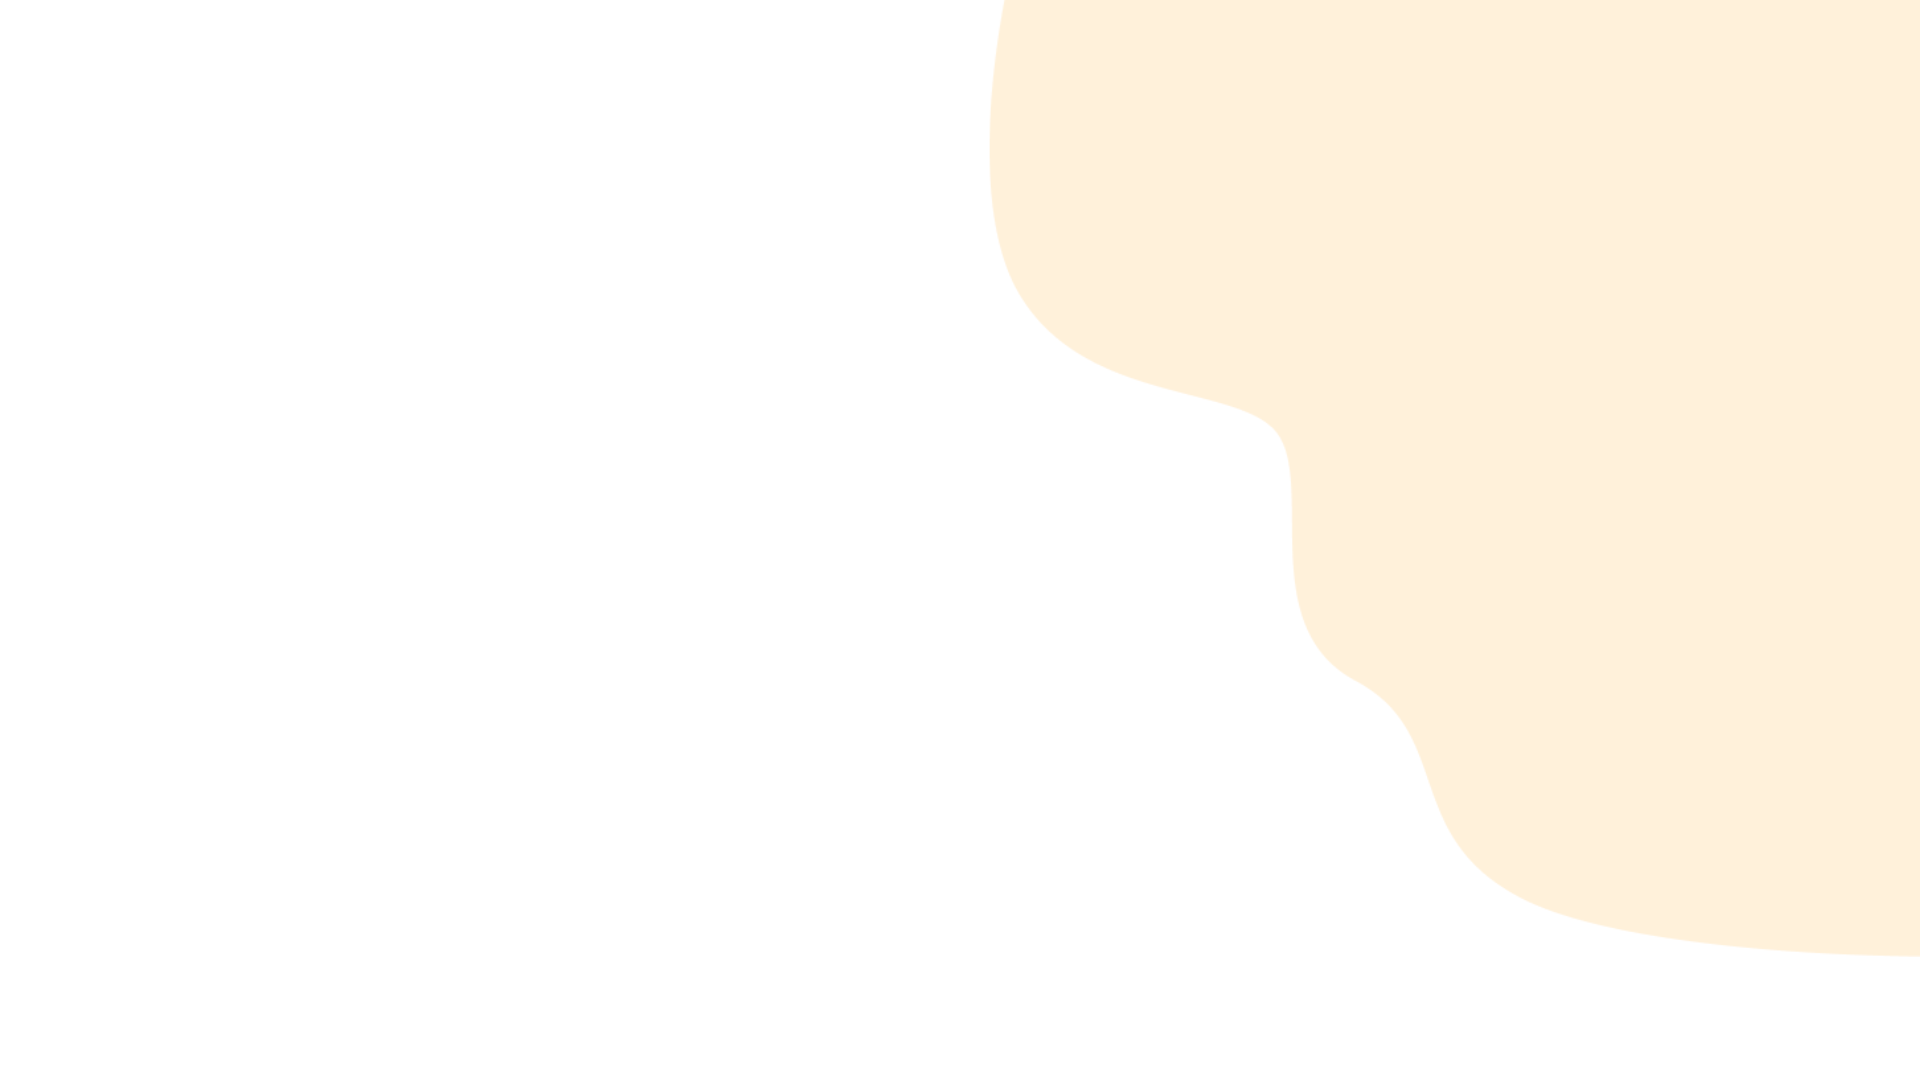
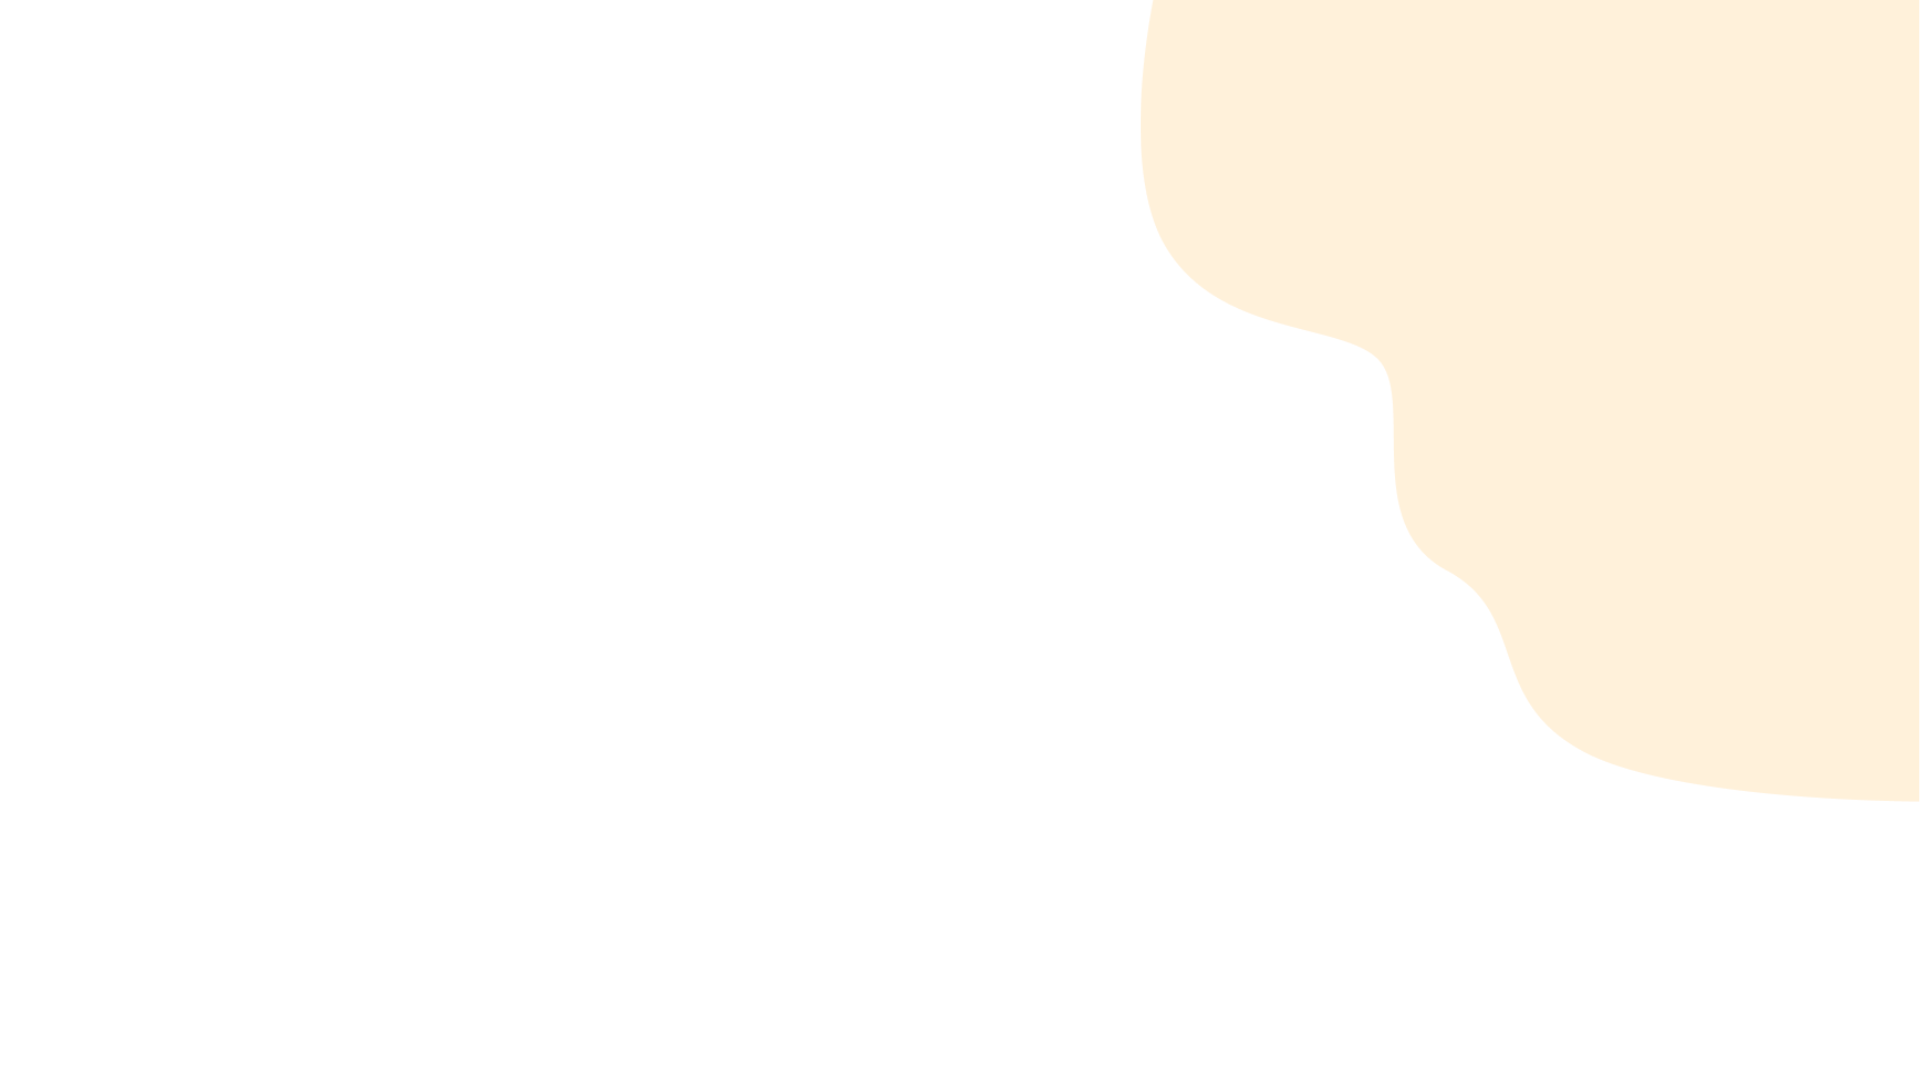
cmmit

Changed region(s): [[0.5, 0.0, 1.0, 0.8861]]

diff --git a/index.html b/index.html
@@ -9,11 +9,11 @@
 </head>
 <body>
      
- <header class=" w-full h-screen">
+ <header class=" px-15 xl:px-50 lg:px-30   w-full h-screen  bg-[url(/images/photo/500.png)] ">
   
 
-    <nav class="w-full flex justify-between items-center px-50 py-6 fixed top-0 right-0 z-100">
-        <div class="logo text-2xl ">
+    <nav class="w-full flex justify-between items-center py-6  ">
+        <div class="logo text-xl xl:text-2xl ">
             <img src="/images/icone/Logo.svg" alt="" srcset="">
         </div>
        <div class="nav_link md:flex items-center gap-15 text-base font-medium hidden" >
@@ -22,8 +22,7 @@
         <a href="" class=" hover:text-yellow-600 font-semibold">Flights</a>
         <a href="" class=" hover:text-yellow-600 font-semibold">Bookings</a>
         <a href="" class=" hover:text-yellow-600 font-semibold">Login</a>
-        <a href="" class=" hover:text-yellow-600 font-semibold">Login</a>
-        <button class="px-10 py-2 rounded-lg border-1 font-semibold text-dark hover:bg-blue-700 hidden  md:block">Sign up</button>
+        <button class="px-10 py-2 rounded-lg border-1 font-semibold text-dark hover:bg-amber-500 hover:text-white hidden  md:block">Sign up</button>
         <select name="" id="" class="text-dark p-2 focus:outline-none font-semibold">
             <option class="w-lg" value="">EN</option>
             <option value="" class="w-lg">FR</option>
@@ -32,36 +31,105 @@
         
     </nav>
 
+     <div class="header_content flex justify-beetween w-full  h-full">
+        <div class="header_content_left  w-1/2 flex flex-col gap-10 pt-40 ">
+            <h4 class="text-xl font-bold text-red-500">Best Destinations around the world</h4>
+            <h1 class="text-8xl text-blue-950 ">Travel, <span>enjoy</span>
+                and live a new
+                and full life</h1>
+                <p class="text-xl/9 text-blue-950 w-150 ">Built Wicket longer admire do barton vanity itself do in it. Preferred to sportsmen it engrossed listening. Park gate sell they west hard for the.</p>
+                <div class="btn flex gap-5">
+                    <button class="py-5 rounded-xl px-15 bg-amber-500 text-white  hover:bg-amber-400 ">Fond out more</button>
+                    <button class="rounded-full   hover:bg-red-400   bg-red-400 text-white p-5">
+                        <svg xmlns="http://www.w3.org/2000/svg" width="24" height="24" viewBox="0 0 24 24" fill="none" stroke="currentColor" stroke-width="2" stroke-linecap="round" stroke-linejoin="round" class="lucide lucide-play"><polygon points="6 3 20 12 6 21 6 3"/></svg>
+                    </button>
+                </div>
+
+        </div>
+        <div class="header_content_right w-1/2 h-screen hidden md:block bg-[url(/images/photo/fille_baniere.png)] bg-no-repeat ">
+            
+        </div>
+     
+    </div> 
+
  </header>
 
 
- <main class="bg">
-    <section class=" ">
+
+
+
+ <main class="">
+    <section class="category  px-10 lg:px-30  xl:px-50  w-full py-5 my-10 lg:my-15 xl:my-20">
+       <div class="category_text text-center">
+        <p class="text-lg lg:text-xl xl:text-2xl font-medium text-blue-900 opacity-70   ">Category</p>
+        <h1 class=" text-blue-950 text-2xl lg:text-3xl xl:text-5xl font-bold my-5 ">We Offer Best Services</h1>
+       </div>
+       <div class="category_content  mt-20 
+      max-w-2xl mx-auto 
+        lg:max-w-full grid grid-cols-1 gap-y-10 gap-x-5
+        sm:grid-cols-1
+        lg:grid-cols-2
+        xl:grid-cols-4
+         ">
+         <div class="category_item flex flex-col gap-4 p-4 items-center hover:shadow-xl  hover:rounded-2xl ">
+          
+                <img class="w-20 h-20" src="/images/icone/category1.svg" alt="" srcset="">
+                <h3 class="text-xl text-blue-900 font-regular">Calculated Weather</h3>
+                <p class=" text-center text-blue-900 font-regular opacity-70 lg:px-10">Built Wicket longer admire do barton vanity itself do in it.</p>
+         </div>
+         <div class="category_item   flex flex-col gap-4 p-4 items-center">
+           
+                <img class="w-20 h-20" src="/images/icone/category2.svg" alt="" srcset="">
+                <h3 class="text-xl text-blue-900 font-regular">Best Flights</h3>
+                <p class=" text-center text-blue-900 font-regular opacity-70  lg:px-10 ">Engrossed listening. Park gate sell they west hard for the.</p>
        
+         </div>
+      
+         <div class="category_item p-4 flex flex-col gap-4  items-center">
+          
+                <img class="w-20 h-20" src="/images/icone/category3.svg" alt="" srcset="">
+                <h3 class="text-xl text-blue-900 font-regular">Local Events</h3>
+                <p class=" text-center text-blue-900 font-regular opacity-70  lg:px-10">Barton vanity itself do in it. Preferd to men it engrossed listening. </p>
+          
+         </div>
+         <div class="category_item  p-4 flex flex-col gap-4  items-center">
+           
+                <img class="w-20 h-20" src="/images/icone/category4.svg" alt="" srcset="">
+                <h3 class="text-xl text-blue-900 font-regular">Customization</h3>
+                <p class=" text-center text-blue-900 font-regular opacity-70 lg:px-10">We deliver outsourced aviation services for military customers</p>
+        
+         </div>
+   
+
+
+
+       </div>
     </section>
 
-    <section class="presentation  w-full py-[7%] px-[10%]">
-        <h1 class="text-center text-4xl font-bold">Une expérience satisfaisante tout au long de vos voyages</h1>
-        <p class="text-center w-[60%] m-auto my-15">Voyager est bien plus qu'un simple déplacement, c'est une expérience qui doit être à la fois agréable et sans souci. Notre mission est de vous offrir une satisfaction complète à chaque étape de votre parcours. Du confort à bord à la simplicité des services, nous mettons tout en œuvre pour que vos voyages soient synonymes de plaisir, de sécurité et de tranquillité d'esprit. Profitez pleinement de chaque trajet, nous nous occupons du reste.</p>
+    <section class="presentation  px-10  lg:px-30 xl:px-50 w-full my-5 lg:my-20 xl:my-50 ">
+        <div class="presentation_text text-center">
+            <p class="text-lg lg:text-xl xl:text-2xl font-medium text-blue-900 opacity-70">Top Selling</p>
+            <h1 class=" text-blue-950 text-2xl lg:text-3xl xl:text-5xl font-bold my-5 ">Top Destination</h1>
+        </div>
 
         <div class="presentation_carde mt-[7%]
         max-w-2xl mx-auto 
-        lg:max-w-full grid grid-cols-1 gap-y-10 gap-x-8
-        sm:grid-cols-2 
+        lg:max-w-full grid grid-cols-1 gap-y-10 gap-x-15
+        sm:grid-cols-2
         lg:grid-cols-3
-        xl:grid-cols-4
+        xl:grid-cols-3 
         ">
        
             <div class="carde_item bg-white shadow-lg rounded-lg ">
-                <img src="/images/photo/paris.jpg" class="rounded-t-lg" alt="" srcset="">
+                <img src="/images/photo/rome.jpg" class="rounded-t-lg" alt="" srcset="">
                 <div class="p-4">
                     <div class="flex mb-5 justify-between">
-                        <h4>Paris , sénégal</h4>
-                        <p class="text-gray-700 font-bold">350 000 cfa</p>
+                        <h4>Rome, Itali</h4>
+                        <p class="text-gray-700 font-bold">$5,42k</p>
                     </div>
                     <a href="" class="inline-flex items-center justify-between gap-3 py-1 font-medium ">
                         <img class=" h-5 w-6" src="/images/icone/paper-plane-solid.svg" alt="" srcset="">
-                    <span class="text-gray-700 text-lg">visiter</span>
+                    <span class="text-gray-700 text-lg">10 Days Trip</span>
 
                     </a>
 
@@ -73,15 +141,15 @@
             </div>
 
             <div class="carde_item bg-white shadow-lg rounded-lg">
-                <img src="/images/photo/usa.jpg" class="rounded-t-lg" alt="" srcset="">
+                <img src="/images/photo/londre.jpg" class="rounded-t-lg" alt="" srcset="">
                 <div class="p-4">
                     <div class="flex mb-5 justify-between">
-                        <h4>Usa , sénégal</h4>
-                        <p class="text-gray-700 font-bold">650 000 cfa</p>
+                        <h4>London, UK</h4>
+                        <p class="text-gray-700 font-bold">$4.2k</p>
                     </div>
                     <a href="" class="inline-flex items-center justify-between gap-3 py-1 font-medium ">
                         <img class=" h-5 w-6" src="/images/icone/paper-plane-solid.svg" alt="" srcset="">
-                    <span class="text-gray-700 text-lg">visiter</span>
+                    <span class="text-gray-700 text-lg">12 Days Trip</span>
 
                     </a>
 
@@ -93,15 +161,15 @@
            </div>
 
             <div class="carde_item bg-white shadow-lg rounded-lg">
-                <img src="/images/photo/londre.jpg" class="rounded-t-lg" alt="" srcset="">
+                <img src="/images/photo/europe.jpg" class="rounded-t-lg" alt="" srcset="">
                 <div class="p-4">
                     <div class="flex mb-5 justify-between">
-                        <h4>Londre , sénégal</h4>
-                        <p class="text-gray-700 font-bold">750 000 cfa</p>
+                        <h4>Full Europe</h4>
+                        <p class="text-gray-700 font-bold">$15k</p>
                     </div>
                     <a href="" class="inline-flex items-center justify-between gap-3 py-1 font-medium ">
                         <img class=" h-5 w-6" src="/images/icone/paper-plane-solid.svg" alt="" srcset="">
-                    <span class="text-gray-700 text-lg">visiter</span>
+                    <span class="text-gray-700 text-lg">28 Days Trip</span>
 
                     </a>
 
@@ -109,91 +177,12 @@
 
             </div>
             
-            <div class="carde_item bg-white shadow-lg rounded-lg">
-                <img src="/images/photo/suisse.jpg" class="rounded-t-lg" alt="" srcset="">
-                <div class="p-4">
-                    <div class="flex mb-5 justify-between">
-                        <h4>Suisse , sénégal</h4>
-                        <p class="text-gray-700 font-bold">450 000 cfa</p>
-                    </div>
-                    <a href="" class="inline-flex items-center justify-between gap-3 py-1 font-medium ">
-                        <img class=" h-5 w-6" src="/images/icone/paper-plane-solid.svg" alt="" srcset="">
-                    <span class="text-gray-700 text-lg">visiter</span>
-
-                    </a>
-
-                </div>
-
-            </div>
-            <div class="carde_item bg-white shadow-lg rounded-lg">
-                <img src="/images/photo/chine.jpg" class="rounded-t-lg" alt="" srcset="">
-                <div class="p-4">
-                    <div class="flex mb-5 justify-between">
-                        <h4>Chine , sénégal</h4>
-                        <p class="text-gray-700 font-bold">950 000 cfa</p>
-                    </div>
-                    <a href="" class="inline-flex items-center justify-between gap-3 py-1 font-medium ">
-                        <img class=" h-5 w-6" src="/images/icone/paper-plane-solid.svg" alt="" srcset="">
-                    <span class="text-gray-700 text-lg">visiter</span>
-
-                    </a>
-
-                </div>
-
-            </div>
-            <div class="carde_item bg-white shadow-lg rounded-lg">
-                <img src="/images/photo/canada.jpg" class="rounded-t-lg" alt="" srcset="">
-                <div class="p-4">
-                    <div class="flex mb-5 justify-between">
-                        <h4>Canada , sénégal</h4>
-                        <p class="text-gray-700 font-bold">1 100 000 cfa</p>
-                    </div>
-                    <a href="" class="inline-flex items-center justify-between gap-3 py-1 font-medium ">
-                        <img class=" h-5 w-6" src="/images/icone/paper-plane-solid.svg" alt="" srcset="">
-                    <span class="text-gray-700 text-lg">visiter</span>
-
-                    </a>
-
-                </div>
-
-            </div>
-            <div class="carde_item bg-white shadow-lg rounded-lg">
-                <img src="/images/photo/russie.jpg" class="rounded-t-lg" alt="" srcset="">
-                <div class="p-4">
-                    <div class="flex mb-5 justify-between">
-                        <h4>Russie , sénégal</h4>
-                        <p class="text-gray-700 font-bold">720 000 cfa</p>
-                    </div>
-                    <a href="" class="inline-flex items-center justify-between gap-3 py-1 font-medium ">
-                        <img class=" h-5 w-6" src="/images/icone/paper-plane-solid.svg" alt="" srcset="">
-                    <span class="text-gray-700 text-lg">visiter</span>
-
-                    </a>
-
-                </div>
-
-            </div>
-            <div class="carde_item bg-white shadow-lg rounded-lg">
-                <img src="/images/photo/grece.jpg" class="rounded-t-lg" alt="" srcset="">
-                <div class="p-4">
-                    <div class="flex mb-5 justify-between">
-                        <h4>Grece , sénégal</h4>
-                        <p class="text-gray-700 font-bold">550 000 cfa</p>
-                    </div>
-                    <a href="" class="inline-flex items-center justify-between gap-3 py-1 font-medium ">
-                        <img class=" h-5 w-6" src="/images/icone/paper-plane-solid.svg" alt="" srcset="">
-                    <span class="text-gray-700 text-lg">visiter</span>
-
-                    </a>
-
-                </div>
-
-            </div>
+          
 
  
     </section>
 
-    <section class="book w-full h-screen  px-[10%] pt-[2%]">
+    <!-- <section class="book w-full h-screen  px-[10%] pt-[2%]">
           <div class="w-full " >
             <h3 class="text-xl text-gray-500 font-bold"  >Facile et Rapide</h3>
               <div class="book_content flex justify-between max-w-xl  mx-auto lg:max-w-full">
@@ -301,10 +290,8 @@
                     </div>
               </div>
           </div>
-    </section>
-    <section>
+    </section> -->
   
-    </section>
  </main>
 
 

diff --git a/Assets/css/style.css b/Assets/css/style.css
@@ -11,7 +11,7 @@
 
 header {
     
-   background: url(/images/photo/header2.png);
+    background-image: url(/images/photo/header.png);
     background-size: cover;
     background-repeat: no-repeat;
 }
@@ -38,4 +38,10 @@ input::placeholder {
     transform: scale(1.1);
     transition: 0.3s ease-out;
 }
+
+
+ h1{
+    font-family: Volkhov;
+}
+
 
